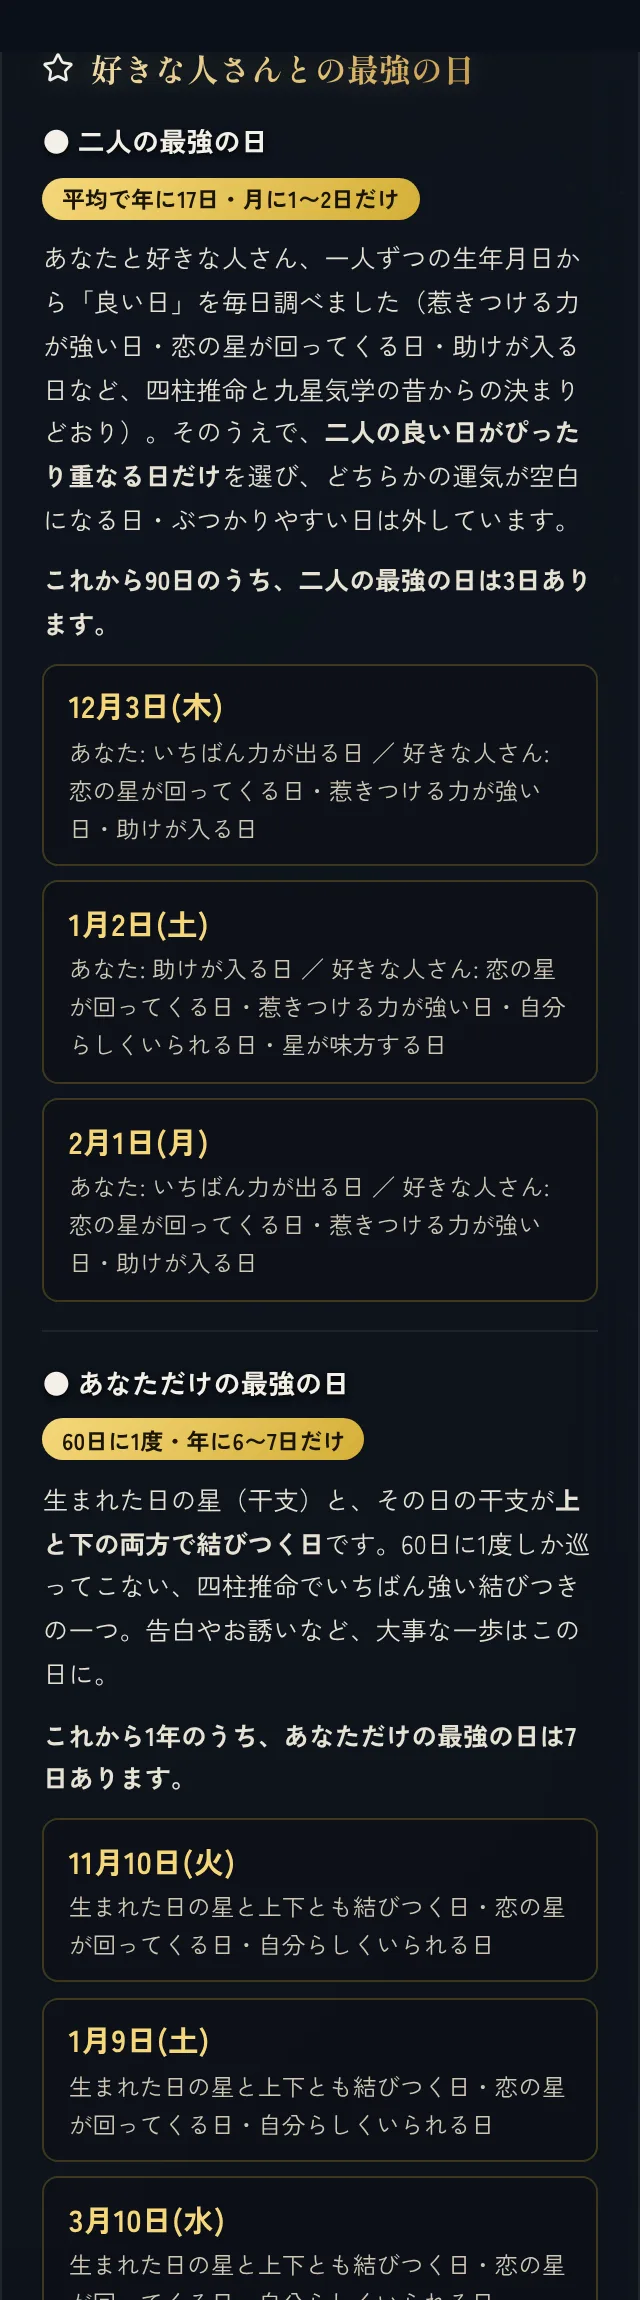
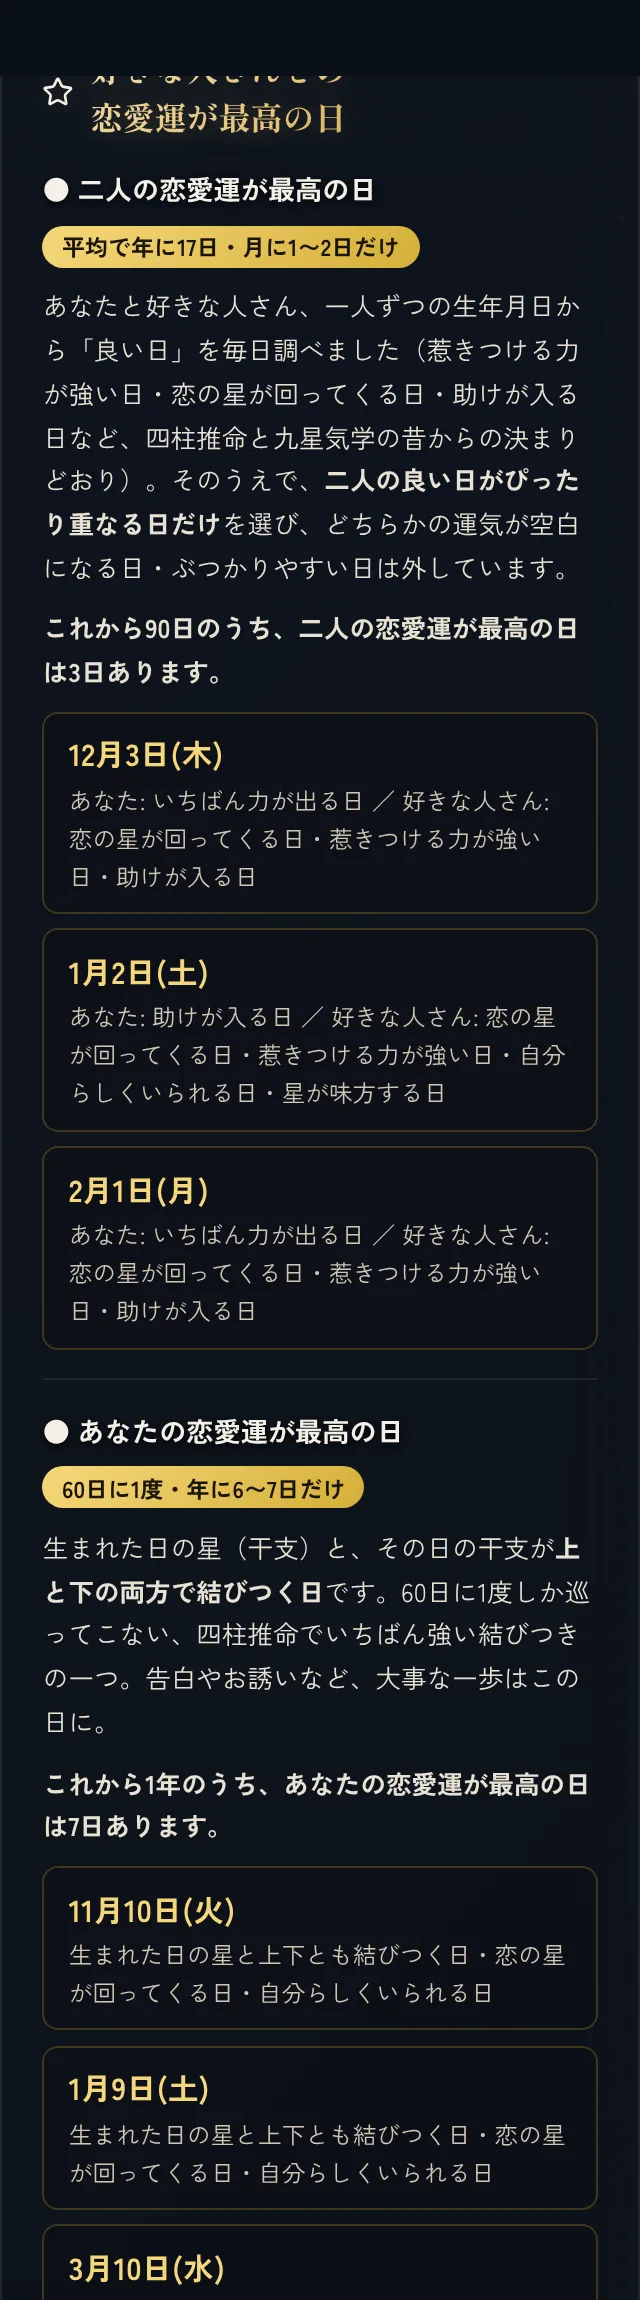
「最強の日」を「恋愛運が最高の日」に言い換え
Claude-Session: https://claude.ai/code/session_019582yE7YoTRSL4sTdXJpa4

diff --git a/src/components/PremiumLPModal.tsx b/src/components/PremiumLPModal.tsx
@@ -23,11 +23,11 @@ const benefits = [
   {
     Icon: Star,
     color: '#e2c074',
-    title: '二人の最強の日と、あなただけの最強の日',
+    title: '二人の恋愛運が最高の日と、あなたの恋愛運が最高の日',
     shot: '/assets/premium/lucky-days.webp',
-    shotAlt: '二人の最強の日とあなただけの最強の日の画面',
+    shotAlt: '二人の恋愛運が最高の日とあなたの恋愛運が最高の日の画面',
     pairNote: 'pairLucky',
-    body: '二人の生年月日から一人ずつの「良い日」を毎日調べ、二人の良い日がぴったり重なる日だけを選んだ「二人の最強の日」（平均で年に17日）と、60日に1度しか巡ってこない「あなただけの最強の日」の日付がわかります。告白やデートのお誘いは、この日に。'
+    body: '二人の生年月日から一人ずつの「良い日」を毎日調べ、二人の良い日がぴったり重なる日だけを選んだ「二人の恋愛運が最高の日」（平均で年に17日）と、60日に1度しか巡ってこない「あなたの恋愛運が最高の日」の日付がわかります。告白やデートのお誘いは、この日に。'
   },
   {
     Icon: Calendar,
@@ -379,7 +379,7 @@ export const PremiumLPModal: React.FC<PremiumLPModalProps> = ({
   const faqs = [
     ...(pair ? [{
       q: '買い切り（680円）と月額の違いは？',
-      a: `買い切りは、${pair.name}ひとりの「変わらない鑑定」（トリセツ・深層鑑定・相性グラフ・二人の最強の日）をずっと読めるものです。買った日は今日の相性やLINEの助言も全部見られます。毎日変わる内容を毎日見たいときや、ほかのお相手も見たいときは月額が向いています。`
+      a: `買い切りは、${pair.name}ひとりの「変わらない鑑定」（トリセツ・深層鑑定・相性グラフ・二人の恋愛運が最高の日）をずっと読めるものです。買った日は今日の相性やLINEの助言も全部見られます。毎日変わる内容を毎日見たいときや、ほかのお相手も見たいときは月額が向いています。`
     }] : []),
     {
       q: '会員登録をしていなくても購入できますか？',
@@ -567,7 +567,7 @@ export const PremiumLPModal: React.FC<PremiumLPModalProps> = ({
                   { who: 'ren', t: '惹かれ合うポイント ＆ 地雷行動 3選', shot: '/assets/premium/edu-hikare.webp', d: '二人の組み合わせだからこそ起きやすい、すれ違いのパターンがあります。先に知っておけば、避けられますよ。' },
                   { who: 'tsuki', t: '6つの相性グラフ ＆ 二人のこれから', shot: '/assets/premium/edu-radar.webp', d: '恋愛・会話・結婚・信頼などの相性と、関係が進みやすい時期。動くタイミングを、一緒に読んでいきましょうね。' },
                   { who: 'ren', t: 'そのまま送れるLINEキラーテンプレート', shot: '/assets/premium/edu-template.webp', d: `${pair.name}の性格に合わせた文例を用意しました。言葉に迷う夜は、そのまま使ってください。` },
-                  { who: 'ren', t: '二人の最強の日', shot: '/assets/premium/lucky-days.webp', d: `二人の良い日がぴったり重なる、平均で年に17日だけの日。${pair.name}への告白やお誘いを、いつにすればいいかがわかります。` },
+                  { who: 'ren', t: '二人の恋愛運が最高の日', shot: '/assets/premium/lucky-days.webp', d: `二人の良い日がぴったり重なる、平均で年に17日だけの日。${pair.name}への告白やお誘いを、いつにすればいいかがわかります。` },
                   { who: 'tsuki', t: '7日間の波から、10年先の二人の未来まで', shot: '/assets/premium/edu-future.webp', d: '明日からの7日間・月ごとの相性の波と、この先10年の年ごとの流れ。「大開運の年」や、結婚・同棲のような大きな決断に向いた時期も見えるので、先を見すえて動けますよ。（プレミアムプランで読めます）' }
                 ] as const).map((it) => (
                   <CharBubble key={it.t} who={it.who} small>
@@ -620,8 +620,8 @@ export const PremiumLPModal: React.FC<PremiumLPModalProps> = ({
                 {[
                   { label: 'トリセツ・深層鑑定・相性グラフ', pair: `${pair.name}だけ`, monthly: '誰でも無制限' },
                   { label: '今日の相性と、本日のLINEの送り方', pair: `本日分(${todayJst})`, monthly: '毎日' },
-                  { label: '二人の最強の日（日付）', pair: `${pair.name}だけ`, monthly: '誰でも' },
-                  { label: 'あなただけの最強の日（日付）', pair: null, monthly: '◯' },
+                  { label: '二人の恋愛運が最高の日（日付）', pair: `${pair.name}だけ`, monthly: '誰でも' },
+                  { label: 'あなたの恋愛運が最高の日（日付）', pair: null, monthly: '◯' },
                   { label: '7日間・月ごと・10年先までの流れ（結婚・転機の年）', pair: null, monthly: '◯' },
                   { label: '毎朝の運勢メール', pair: '冒頭', monthly: '全文' },
                   { label: '月・蓮へのチャット相談', pair: '1日2回', monthly: '無制限' },
@@ -786,7 +786,7 @@ export const PremiumLPModal: React.FC<PremiumLPModalProps> = ({
                       {pairNote === 'pairAll'
                         ? `¥680の買い切りでも見られます（${pair ? pairWho : "お相手1人"}だけ）`
                         : pairNote === 'pairLucky'
-                          ? `¥680の買い切りでも、${pair ? pairWho : "お相手1人"}との「二人の最強の日」が見られます`
+                          ? `¥680の買い切りでも、${pair ? pairWho : "お相手1人"}との「二人の恋愛運が最高の日」が見られます`
                           : '¥680の買い切りは購入日だけ'}
                     </span>
                   )}

diff --git a/src/components/LuckyDaysSection.tsx b/src/components/LuckyDaysSection.tsx
@@ -7,8 +7,8 @@ import {
 } from '../utils/luckyDays';
 import type { LuckyDay, LuckMark } from '../utils/luckyDays';
 
-// 「最強の日」の欄。根拠と、どれだけ珍しい日かは誰にでも見せ、日付そのものは有料（2026-11-05 TAKASHI）。
-// 二人の最強の日は、月額プレミアムか、そのお相手の買い切り（¥680）で開く。あなただけの最強の日は月額だけ（2026-11-06 TAKASHI）。
+// 「恋愛運が最高の日」の欄。根拠と、どれだけ珍しい日かは誰にでも見せ、日付そのものは有料（2026-11-05 TAKASHI）。
+// 二人の恋愛運が最高の日は、月額プレミアムか、そのお相手の買い切り（¥680）で開く。あなたの恋愛運が最高の日は月額だけ（2026-11-06 TAKASHI）。
 // 日付はロック中は DOM に出さない（ダミーの「●月●日」を出す）。点数には関わらない。
 const PAIR_WINDOW_DAYS = 90;
 const SOLO_WINDOW_DAYS = 365;
@@ -16,12 +16,12 @@ const SOLO_WINDOW_DAYS = 365;
 interface Props {
   result: FortuneResult;
   isSubscribed: boolean;
-  /** そのお相手を買い切りで解放済み（二人の最強の日だけ開く） */
+  /** そのお相手を買い切りで解放済み（二人の恋愛運が最高の日だけ開く） */
   pairOpen?: boolean;
   myName?: string;
   oppName?: string;
   onLockClick: (e?: React.MouseEvent) => void;
-  /** 二人の最強の日のロックを押したとき（買い切りも選べる購入画面へ） */
+  /** 二人の恋愛運が最高の日のロックを押したとき（買い切りも選べる購入画面へ） */
   onPairLockClick?: (e?: React.MouseEvent) => void;
   lockWord: string;
 }
@@ -109,12 +109,12 @@ export function LuckyDaysSection({ result, isSubscribed, pairOpen = false, myNam
     <div className="glass-panel" style={{ padding: '1.25rem', display: 'flex', flexDirection: 'column', gap: '0.9rem' }}>
       <h2 className="font-serif gold-text" style={{ fontSize: '1rem', display: 'flex', alignItems: 'center', gap: '0.5rem', fontWeight: 'bold' }}>
         <Star size={16} />
-        {partner ? `${oppLabel}との最強の日` : `${myLabel}だけの最強の日`}
+        {partner ? `${oppLabel}との恋愛運が最高の日` : `${myLabel}の恋愛運が最高の日`}
       </h2>
 
       {partner && (
         <div style={{ display: 'flex', flexDirection: 'column', gap: '0.55rem' }}>
-          <span style={subHead}>● 二人の最強の日</span>
+          <span style={subHead}>● 二人の恋愛運が最高の日</span>
           <span style={badgeStyle}>平均で年に17日・月に1〜2日だけ</span>
           <p style={bodyText}>
             {myLabel}と{oppLabel}、一人ずつの生年月日から「良い日」を毎日調べました（惹きつける力が強い日・恋の星が回ってくる日・助けが入る日など、四柱推命と九星気学の昔からの決まりどおり）。そのうえで、<strong>二人の良い日がぴったり重なる日だけ</strong>を選び、どちらかの運気が空白になる日・ぶつかりやすい日は外しています。
@@ -126,7 +126,7 @@ export function LuckyDaysSection({ result, isSubscribed, pairOpen = false, myNam
           )}
           <p style={{ ...bodyText, fontWeight: 'bold' }}>
             {pairDays.length > 0
-              ? `これから${PAIR_WINDOW_DAYS}日のうち、二人の最強の日は${pairDays.length}日あります。`
+              ? `これから${PAIR_WINDOW_DAYS}日のうち、二人の恋愛運が最高の日は${pairDays.length}日あります。`
               : `これから${PAIR_WINDOW_DAYS}日のうちにはありません。この1年では${pairYearCount}日あります。`}
           </p>
           <DayList days={pairDays} locked={pairLocked} showPair myLabel={myLabel} oppLabel={oppLabel} onLockClick={onPairLockClick || onLockClick} lockWord={lockWord} />
@@ -137,13 +137,13 @@ export function LuckyDaysSection({ result, isSubscribed, pairOpen = false, myNam
         display: 'flex', flexDirection: 'column', gap: '0.55rem',
         ...(partner ? { borderTop: '1px solid rgba(255,255,255,0.08)', paddingTop: '0.9rem' } : {})
       }}>
-        <span style={subHead}>● {myLabel}だけの最強の日</span>
+        <span style={subHead}>● {myLabel}の恋愛運が最高の日</span>
         <span style={badgeStyle}>60日に1度・年に6〜7日だけ</span>
         <p style={bodyText}>
           生まれた日の星（干支）と、その日の干支が<strong>上と下の両方で結びつく日</strong>です。60日に1度しか巡ってこない、四柱推命でいちばん強い結びつきの一つ。告白やお誘いなど、大事な一歩はこの日に。
         </p>
         <p style={{ ...bodyText, fontWeight: 'bold' }}>
-          これから1年のうち、{myLabel}だけの最強の日は{soloDays.length}日あります。
+          これから1年のうち、{myLabel}の恋愛運が最高の日は{soloDays.length}日あります。
         </p>
         <DayList days={soloDays} locked={locked} showPair={false} myLabel={myLabel} oppLabel={oppLabel} onLockClick={onLockClick} lockWord={lockWord} />
       </div>

diff --git a/src/utils/luckyDays.ts b/src/utils/luckyDays.ts
@@ -1,4 +1,4 @@
-// 「最強の日」: 生年月日（日柱・本命星）と性別から、その人だけ・その二人だけに良い日を出す。
+// 「恋愛運が最高の日」: 生年月日（日柱・本命星）と性別から、その人だけ・その二人だけに良い日を出す。
 // 鑑定の点数（dailyScore など）には足さない（点数は変えない。2026-11-05 TAKASHI 判断の「案A」）。
 //
 // 一人ずつの「良い日」の印は、四柱推命・九星気学の伝統的な決まり:
@@ -12,7 +12,7 @@
 // 注意の日（どちらかに当たれば外す）:
 //  ・空亡: 自分の日柱の旬で欠ける2つの十二支の日
 //  ・六沖: その日の十二支が自分の日支と真逆
-// 印をどう重ねると「最強」とするか（下の isPersonalBest / 二人の最強の日）は伝統に決まりがないので、アプリのオリジナル。
+// 印をどう重ねると「最高の日」とするか（下の isPersonalBest / 二人の恋愛運が最高の日）は伝統に決まりがないので、アプリのオリジナル。
 import { calculateDayPillar, getDayStarNumber, getJuniUn, getTenGod } from './fortuneEngine.ts';
 
 const STEMS = '甲乙丙丁戊己庚辛壬癸';
@@ -141,7 +141,7 @@ export interface LuckyDay {
 
 const addDays = (from: Date, n: number) => new Date(from.getFullYear(), from.getMonth(), from.getDate() + n);
 
-/** あなただけの最強の日（天地徳合。60日に1度）。from から days 日のうち */
+/** あなたの恋愛運が最高の日（天地徳合。60日に1度）。from から days 日のうち */
 export function findSoloBestDays(me: LuckPerson, from: Date, days: number): LuckyDay[] {
   const out: LuckyDay[] = [];
   for (let i = 0; i < days; i++) {
@@ -153,7 +153,7 @@ export function findSoloBestDays(me: LuckPerson, from: Date, days: number): Luck
 }
 
 /**
- * 二人の最強の日。どちらも注意の日でなく、
+ * 二人の恋愛運が最高の日。どちらも注意の日でなく、
  *  ・片方が勝負の日で、もう片方も良い日、または
  *  ・三合がそろう日で、二人とも良い日
  */

diff --git a/src/components/ResultView.tsx b/src/components/ResultView.tsx
@@ -2204,7 +2204,7 @@ export const ResultView: React.FC<ResultViewProps> = ({
           </div>
         </div>
 
-        {/* 最強の日（LINEの吉時間・コツの欄のすぐ下。根拠・珍しさは全員に、日付は月額プレミアムだけ） */}
+        {/* 恋愛運が最高の日（LINEの吉時間・コツの欄のすぐ下。根拠・珍しさは全員に、日付は月額プレミアムだけ） */}
         <LuckyDaysSection
           result={activeResult}
           isSubscribed={isSubscribed}
